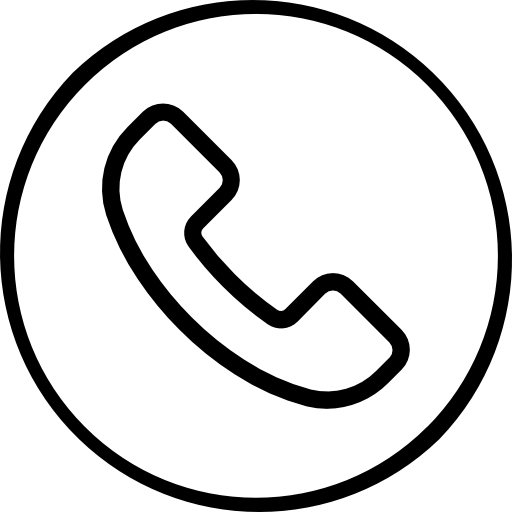
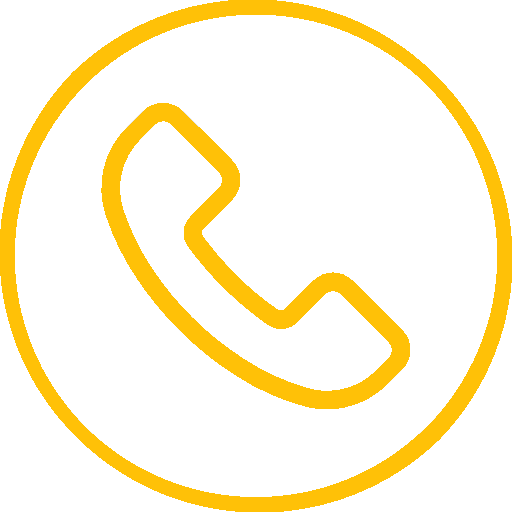
home.html kepek; profil adatok megjelenitese

Changed region(s): [[0.0, 0.0, 1.0, 1.0], [0.1875, 0.1875, 0.8125, 0.8125]]

diff --git a/html/home.html b/html/home.html
@@ -32,8 +32,7 @@
 		<!-- Rendelési lehetőség -->
 		<div class="col-lg-4 mt-3">
 			<img src="./media/image/pen-and-paper.png" 
-				 class="border border-4 border-warning rounded p-2" 
-				 style="background-color: white;" 
+				 style="background-color: #2B2B2B;"
 				 width="140" 
 				 height="140" 
 				 alt="rendeles">
@@ -57,8 +56,7 @@
 		<!-- Asztalfoglalási lehetőség -->
 		<div class="col-lg-4 mt-3">
 			<img src="./media/image/table.png" 
-				 class="border border-4 border-warning rounded p-2" 
-				 style="background-color: white;" 
+				 style="background-color: #2B2B2B;"
 				 width="140" 
 				 height="140" 
 				 alt="foglalas">
@@ -82,8 +80,7 @@
 		<!-- Kapcsolatfelvételi lehetőség -->
 		<div class="col-lg-4 mt-3">
 			<img src="./media/image/phone.png" 
-				 class="border border-4 border-warning rounded p-2" 
-				 style="background-color: white;" 
+				 style="background-color: #2B2B2B;"
 				 width="140" 
 				 height="140" 
 				 alt="telefon">

diff --git a/html/profile.html b/html/profile.html
@@ -129,7 +129,6 @@
 								   spellcheck="false" 
 								   autocomplete="off"
 								   maxlength="10"
-								   ng-init="model.countryCode=null"
 								   ng-model="model.countryCode"
 								   style="max-width:100px;"
 								   ng-disable-space>
@@ -142,7 +141,6 @@
 								   spellcheck="false" 
 								   autocomplete="off"
 								   maxlength="10"
-								   ng-init="model.phone=null"
 								   ng-model="model.phone"
 								   ng-pattern="/^(?!(0))[0-9]{7,10}$/">
 						</div>						
@@ -181,7 +179,6 @@
 							   autocomplete="off" 
 							   required
 							   maxlength="100"
-							   ng-init="model.address=null"
 							   ng-model="model.address"
 							   ng-clear-icon>
 					</div>

diff --git a/php/profile_get.php b/php/profile_get.php
@@ -18,11 +18,11 @@ var_dump($args);
 
 // Set SQL command
 $query ="SELECT `felhasznaloID` AS `id`, 
-                `nev` AS `name`, 
-                `email` AS `email`, 
-                `orszagkod` AS `countryCode`, 
-                `telszam` AS `phone`, 
-                `lakcim` AS `address`
+                `nev`           AS `name`, 
+                `email`         AS `email`, 
+                `orszagkod`     AS `countryCode`, 
+                `telszam`       AS `phone`, 
+                `lakcim`        AS `address`
          FROM `felhasznalok`
          WHERE `felhasznaloID` = :id
 	  LIMIT 1";
@@ -43,5 +43,5 @@ if (is_null($result))
 // Simplifying the result
 $result = $result[0];
 
-// Ser response
+// Set response
 Util::setResponse($result);
